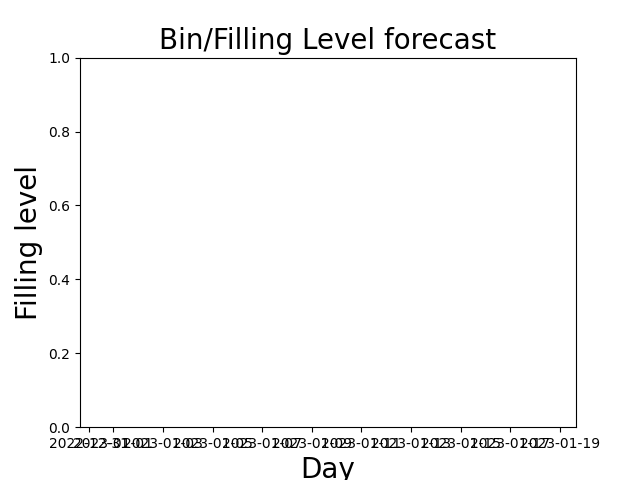
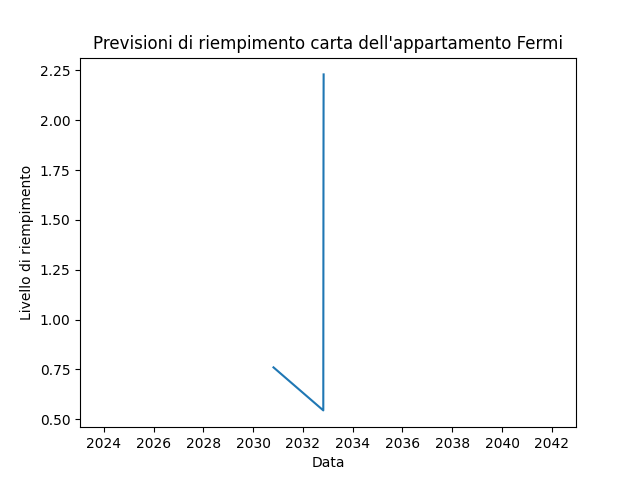
fbprophet up

diff --git a/flaskIOT/app/fbprophet/fbprophet.py b/flaskIOT/app/fbprophet/fbprophet.py
@@ -19,66 +19,63 @@ def main():
 
 
 @fbprophet_blueprint.route('/getprevision')
-def getprevision():
-    
-    timestamps = []
-    filling = []
-    
+def getprevision():    
     for bin in Bin.query.all():  # per ogni bidone creo una previsione temporale
+        bin_records = BinRecord.query.filter(BinRecord.associated_bin == bin.id_bin).order_by(BinRecord.timestamp.desc())[:30]
+        apartment_name = Bin.query.filter(Bin.id_bin == bin.id_bin)[0].apartment_ID
+        tipologia = Bin.query.filter(Bin.id_bin == bin.id_bin).first().tipologia
         
-        bin_records = BinRecord.query.filter(
-            BinRecord.associated_bin == bin.id_bin).order_by(BinRecord.timestamp.desc())[:30]
-        
-        apartment_name = Bin.query.filter(
-            Bin.id_bin == bin.id_bin)[0].apartment_ID
-        
-        tipologia = Bin.query.filter(
-            Bin.id_bin == bin.id_bin).first().tipologia
-                
-        for bin_record in bin_records:
-            timestamps.append(bin_record.timestamp)
-            filling.append(bin_record.riempimento)
-        
-        with open('fillinglevel.csv', 'w') as csvfile:
-            filewriter = csv.writer(csvfile, delimiter=',',
-                                    quotechar='|', quoting=csv.QUOTE_MINIMAL)
-            filewriter.writerow(["ds", "y"])
-            for tp, fl in zip_longest(timestamps, filling):
-                filewriter.writerow([tp, fl])
+        if(len(bin_records)>=2): 
+            timestamps = []
+            filling = []      
+            for bin_record in bin_records:
+                timestamps.append(bin_record.timestamp)
+                filling.append(bin_record.riempimento)
+            
+            with open('./app/fbprophet/predictions/%s/riempimento_%s.csv' % (apartment_name, tipologia), 'w') as csvfile:
+                filewriter = csv.writer(csvfile, delimiter=',',
+                                        quotechar='|', quoting=csv.QUOTE_MINIMAL)
+                filewriter.writerow(["ds", "y"])
+                for tp, fl in zip_longest(timestamps, filling):
+                    filewriter.writerow([tp, fl])
 
-        df = pd.read_csv('fillinglevel.csv')
-        
-        df.columns = ['ds', 'y']
-        df['ds'] = pd.to_datetime(df['ds'])
+            df = pd.read_csv('./app/fbprophet/predictions/%s/riempimento_%s.csv' % (apartment_name, tipologia))
+            
+            df.columns = ['ds', 'y']
+            df['ds'] = pd.to_datetime(df['ds'])
 
-        m = Prophet()
-        m.fit(df)
-        future = m.make_future_dataframe(periods=5, freq='d')
-        future.tail()
-        forecast = m.predict(future)
-        forecast[['ds', 'yhat', 'yhat_lower', 'yhat_upper']].tail()
-        """
-        #m.plot(forecast)
-        #m.plot_components(forecast)
-        fig = plot_plotly(m, forecast)
-        plot_components_plotly(m, forecast)
-        datenow = datetime.now()
-        dateend = datenow + timedelta(days=5)
-        datestart = dateend - timedelta(days=20)
-        
-        plt.xlim([datestart, dateend])
-        plt.title("Bin/Filling Level forecast", fontsize=20)
-        plt.xlabel("Day", fontsize=20)
-        plt.ylabel("Filling level", fontsize=20)
-        
-        plt.savefig("Predizioni/%s/%s/Forecast.png" %
-                    (apartment_name, tipologia), format='png')
-        """
-        forecast.to_csv('prediction_%s_%s.csv' % (apartment_name, tipologia))
-        prediction = forecast[['yhat']].values
-        status_previsto = calcolastatus(
-            bin.id_bin, prediction[0], None, None, None)
-        
-        set_previsione_status(bin.id_bin, status_previsto)
-
+            m = Prophet()
+            m.fit(df)
+            future = m.make_future_dataframe(periods=5, freq='d')
+            future.tail()
+            forecast = m.predict(future)
+            forecast[['ds', 'yhat', 'yhat_lower', 'yhat_upper']].tail()
+            
+            days=[]
+            yhats=[]
+            for i in range(len(forecast[['ds']].values)):
+                days.append(forecast[['ds']].values[i, 0])
+                yhats.append(forecast[['yhat']].values[i, 0])
+            
+            plt.plot(days, yhats)
+            datenow = datetime.now()
+            dateend = datenow + timedelta(days=7280)
+            datestart = dateend - timedelta(days=7280)
+            
+            plt.xlim([datestart, dateend])
+            plt.title("Previsioni di riempimento %s dell'appartamento %s" %
+                        (tipologia, apartment_name))
+            plt.xlabel("Data")
+            plt.ylabel("Livello di riempimento")
+            
+            plt.savefig("Predizioni/%s/%s/Forecast.png" %
+                        (apartment_name, tipologia), format='png')
+            
+            forecast.to_csv('./app/fbprophet/predictions/%s/prediction_%s.csv' % (apartment_name, tipologia))
+            prediction = forecast[['yhat']].values
+            status_previsto = calcolastatus(
+                bin.id_bin, prediction[0], None, None, None)
+            
+            set_previsione_status(bin.id_bin, status_previsto)
+  
     return 'done'

diff --git a/flaskIOT/app/database/database.py b/flaskIOT/app/database/database.py
@@ -1,5 +1,5 @@
 import requests
-import datetime
+from datetime import datetime
 from sqlalchemy import update
 from flask import render_template, request, Blueprint
 from os import getenv
@@ -222,14 +222,13 @@ def calcolastatus(id_bin, riempimento, roll, pitch, co2):
             BinRecord.timestamp.desc()).first()).status
 
     tipologia = (Bin.query.filter(Bin.id_bin == id_bin)).first().tipologia
+    apartment_ID = (Bin.query.filter(Bin.id_bin == id_bin)).first().apartment_ID
     soglia_attuale = 0
 
     if (tipologia == "umido"):
-        now = datetime.datetime.now()
+        now = datetime.now()
         mese = now.month
         if (mese >= 4 and mese <= 10):  # mesi caldi
-            apartment_ID = (Bin.query.filter(
-                Bin.id_bin == id_bin)).first().apartment_ID
             lat = (Apartment.query.filter(
                 Apartment.apartment_name == apartment_ID)).first().lat
             lon = (Apartment.query.filter(
@@ -259,9 +258,9 @@ def calcolastatus(id_bin, riempimento, roll, pitch, co2):
 
             timestamp = Bin.query.filter(
                 Bin.id_bin == id_bin).first().ultimo_svuotamento
-            last_date = datetime.datetime.strptime(
+            last_date = datetime.strptime(
                 timestamp, "%Y-%m-%d %H:%M:%S")
-            now = datetime.datetime.now()
+            now = datetime.now()
 
             # temperature alte + sono passo più di deltagiorni
             if ((now-last_date).days > dd_time and dd_time > 0):
@@ -287,23 +286,23 @@ def calcolastatus(id_bin, riempimento, roll, pitch, co2):
     if(riempimento!=None):
         # passaggio da pieno a non pieno e viceversa
         if (status_attuale == 1 and float(riempimento) >= soglia_attuale):
-            full_state()
+            full_state(apartment_ID, riempimento)
             status_attuale = 2
 
         if (status_attuale == 3 and float(riempimento) >= soglia_attuale):
-            full_state()
+            full_state(apartment_ID, riempimento)
             status_attuale = 4
 
         if (status_attuale == 2 and float(riempimento) < soglia_attuale):
             status_attuale = 1
             db.session.query(Bin).filter(Bin.id_bin == id_bin).update(
-                {'ultimo_svuotamento': datetime.datetime.now()})
+                {'ultimo_svuotamento': datetime.now()})
             db.session.commit()
 
         if (status_attuale == 4 and float(riempimento) < soglia_attuale):
             status_attuale = 3
             db.session.query(Bin).filter(Bin.id_bin == id_bin).update(
-                {'ultimo_svuotamento': datetime.datetime.now()})
+                {'ultimo_svuotamento': datetime.now()})
             db.session.commit()
 
     # passaggio da accappottato a dritto e viceversa

diff --git a/flaskIOT/app/map/map.py b/flaskIOT/app/map/map.py
@@ -44,7 +44,7 @@ def getmap():
         "listaPunti": points
     }
 
-    with open('points.json', 'w') as outfile:
+    with open('./app/map/points.json', 'w') as outfile:
         json.dump(viewmap, outfile)
 
     return viewmap
@@ -82,7 +82,7 @@ def getmaptipology(tipologia):
         "listaPunti": points
     }
 
-    with open('points.json', 'w') as outfile:
+    with open('./app/map/points.json', 'w') as outfile:
         json.dump(viewmap, outfile)
 
     return viewmap
